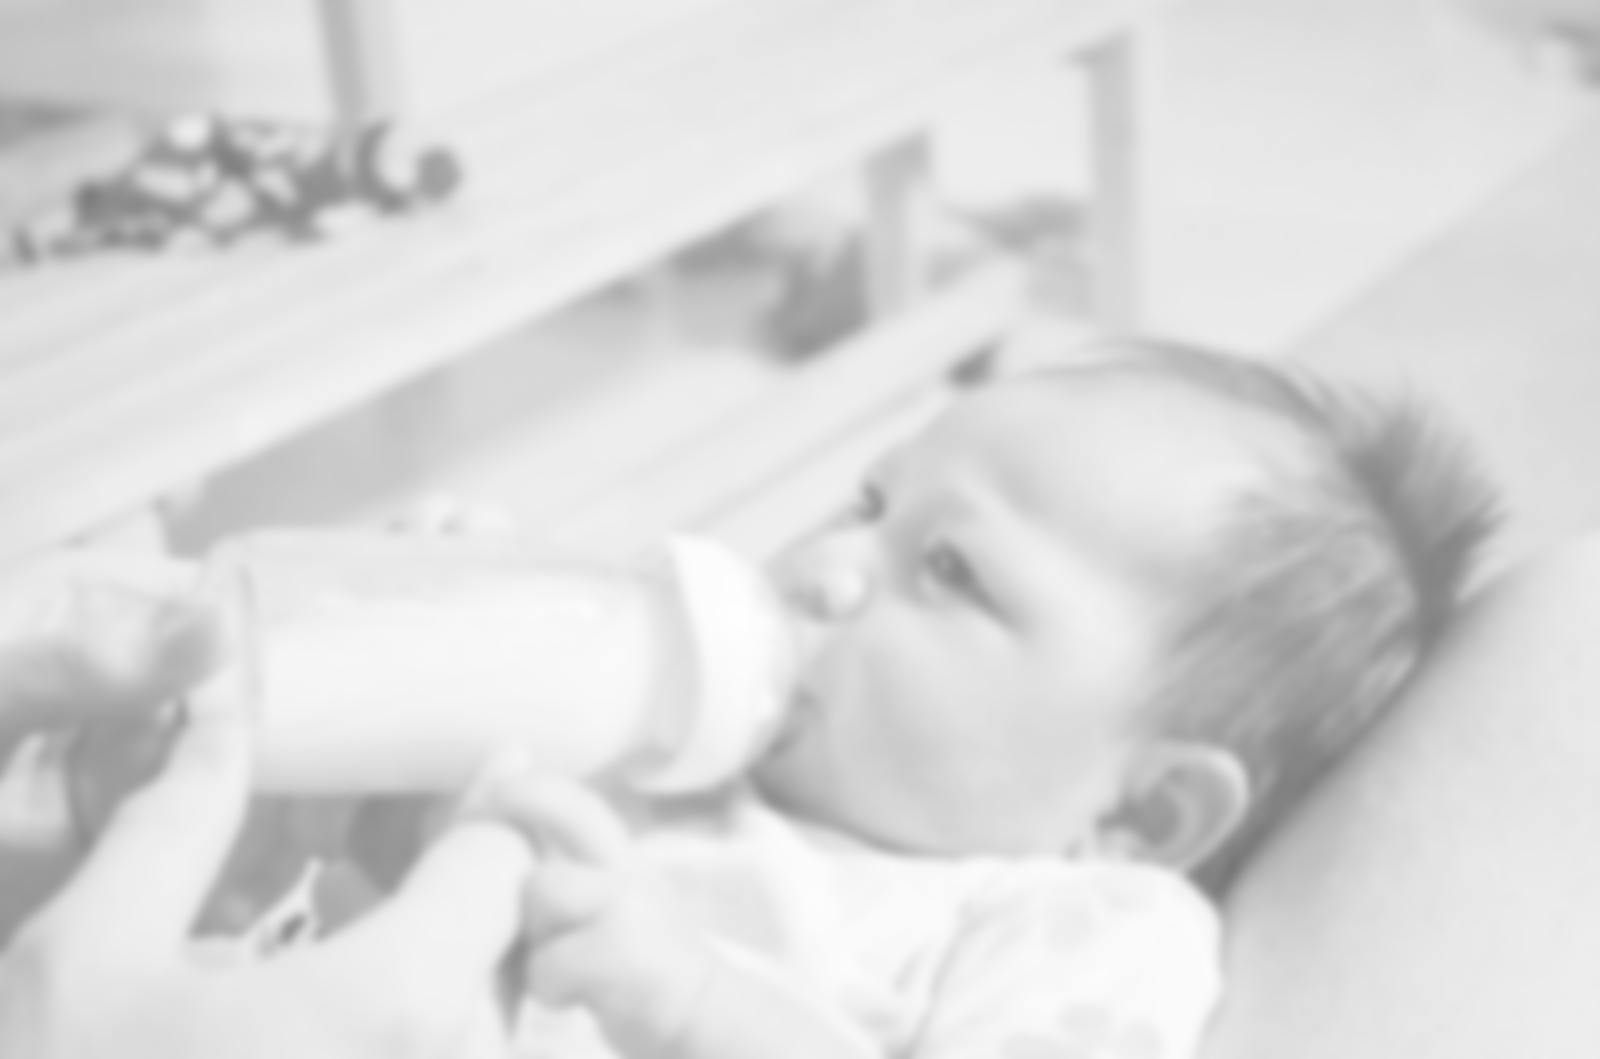
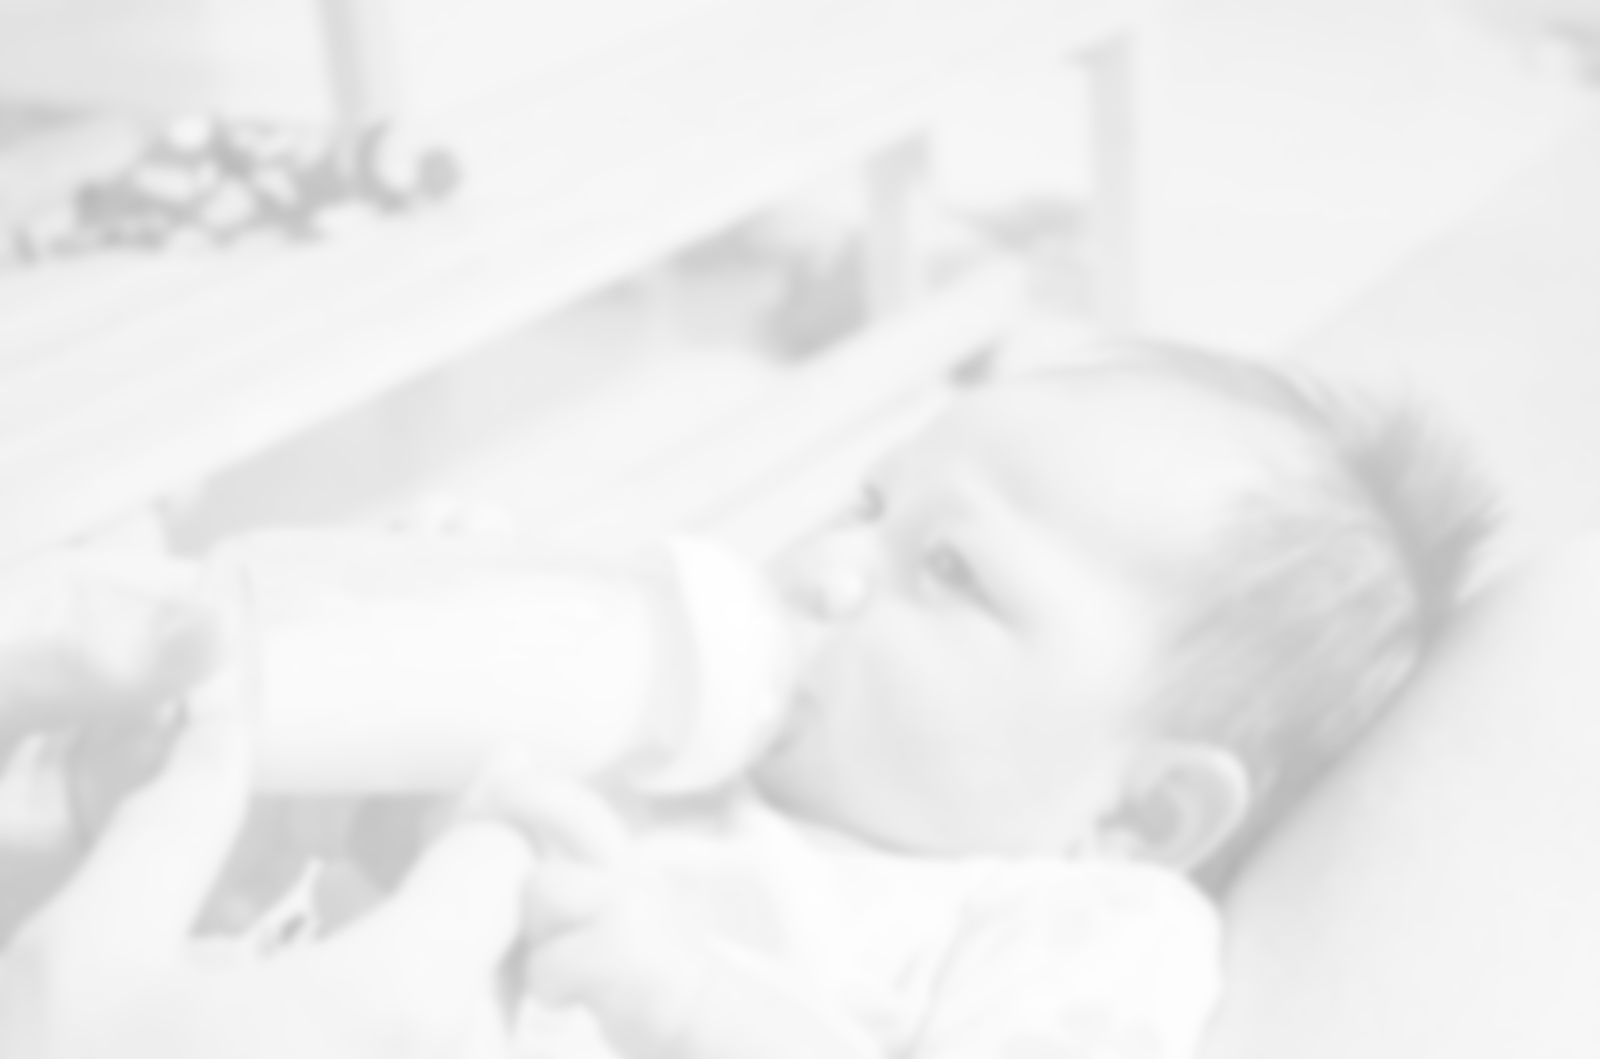
Checked home, main, createacct, userprofile, edituserprofile, donorprofile

diff --git a/templates/userprofile.html b/templates/userprofile.html
@@ -15,25 +15,25 @@ Where a user sees their profile
 		<div class="yourprofile">
 			<h3> Your Profile </h3>
 		</div>
-		<p>First Name: {{ user.first_name }} </p>
-		<p>Last Name: {{ user.last_name }} </p>
-		<p>Email: {{ user.email }} </p>
-		<p>Password: {{ user.password }} </p>
-		<p>Phone Number: {{ user.cell_phone }} </p>
-		<p>Zip Code: {{ user.zip_code }} </p>
+		<p><strong>First Name:</strong> {{ user.first_name }} </p>
+		<p><strong>Last Name:</strong> {{ user.last_name }} </p>
+		<p><strong>Email:</strong> {{ user.email }} </p>
+		<p><strong>Password:</strong> {{ user.password }} </p>
+		<p><strong>Phone Number:</strong> {{ user.cell_phone }} </p>
+		<p><strong>Zip Code:</strong> {{ user.zip_code }} </p>
 
-		<p>No Dairy: {% if user.no_dairy == True %}x{% endif %}</p>
-		<p>No Wheat: {% if user.no_wheat == True %} x{% endif %}</p>
-		<p>No Soy: {% if user.no_soy == True %}x{% endif %} </p>
-		<p>No Caffeine: {% if user.no_caffeine == True %}x{% endif %} </p>
-		<p>No Alcohol: {% if user.no_alcohol == True %}x{% endif %} </p>
-		<p>Health Info Available: {% if user.has_health_info == True %}x{% endif %} </p>
+		<p><strong>No Dairy:</strong> {% if user.no_dairy == True %}x{% endif %}</p>
+		<p><strong>No Wheat:</strong> {% if user.no_wheat == True %} x{% endif %}</p>
+		<p><strong>No Soy:</strong> {% if user.no_soy == True %}x{% endif %} </p>
+		<p><strong>No Caffeine:</strong> {% if user.no_caffeine == True %}x{% endif %} </p>
+		<p><strong>No Alcohol:</strong> {% if user.no_alcohol == True %}x{% endif %} </p>
+		<p><strong>Health Info Available:</strong> {% if user.has_health_info == True %}x{% endif %} </p>
 
-		<p>Drug Information: {{ user.drug_info }} </p>
+		<p><strong>Drug Information:</strong> {{ user.drug_info }} </p>
 
-		<p>About You: {{ user.about_me }} </p>
+		<p><strong>About You:</strong> {{ user.about_me }} </p>
 
-		<p>Notes: {{ user.notes }} </p>
+		<p><strong>Notes:</strong> {{ user.notes }} </p>
 
 	</div>
 <p> <a href="/editprofile">Edit your profile</a></p>

diff --git a/templates/donorprofile.html b/templates/donorprofile.html
@@ -17,25 +17,25 @@ Donor profile information
 	<div class="donorprofile">
 		<h3> Donor Profile </h3>
 	</div>
-	<p>First Name: {{ user.first_name }} </p>
-	<p>Last Name: {{ user.last_name }} </p>
-	<p>Email: {{ user.email }} </p>
-	<p>Password: {{ user.password }} </p>
-	<p>Phone Number: {{ user.cell_phone }} </p>
-	<p>Zip Code: {{ user.zip_code }} </p>
+	<p><strong>First Name:</strong> {{ user.first_name }} </p>
+	<p><strong>Last Name:</strong> {{ user.last_name }} </p>
+	<p><strong>Email:</strong> {{ user.email }} </p>
+	<p><strong>Password:</strong> {{ user.password }} </p>
+	<p><strong>Phone Number:</strong> {{ user.cell_phone }} </p>
+	<p><strong>Zip Code:</strong> {{ user.zip_code }} </p>
 
-	<p>No Dairy: {% if user.no_dairy == True %}x{% endif %}</p>
-	<p>No Wheat: {% if user.no_wheat == True %} x{% endif %}</p>
-	<p>No Soy: {% if user.no_soy == True %}x{% endif %} </p>
-	<p>No Caffeine: {% if user.no_caffeine == True %}x{% endif %} </p>
-	<p>No Alcohol: {% if user.no_alcohol == True %}x{% endif %} </p>
+	<p><strong>No Dairy:</strong> {% if user.no_dairy == True %}x{% endif %}</p>
+	<p><strong>No Wheat:</strong> {% if user.no_wheat == True %} x{% endif %}</p>
+	<p><strong>No Soy:</strong> {% if user.no_soy == True %}x{% endif %} </p>
+	<p><strong>No Caffeine:</strong></strong> {% if user.no_caffeine == True %}x{% endif %} </p>
+	<p><strong>No Alcohol:</strong> {% if user.no_alcohol == True %}x{% endif %} </p>
 	
 
-	<p>Drug Information: {{ user.drug_info }} </p>
+	<p><strong>Drug Information:</strong> {{ user.drug_info }} </p>
 	
-	<p>About Me: {{user.about_me}}</p>
+	<p><strong>About Me:</strong> {{user.about_me}}</p>
 
-	<p>Notes: {{ user.notes }} </p>
+	<p><strong>Notes:</strong> {{ user.notes }} </p>
 	<p><a href="/users/{{user.id}}/messages/">Message {{ user.first_name }}</a> </p>
 
 </div>

diff --git a/templates/message.html b/templates/message.html
@@ -10,14 +10,18 @@
 Write a message to a donor
 -->
 
-<form action="/sendmessage">
+<div class="col-md-3"></div>
+<div class="col-md-7">
+<form action="/sendmessage" method="POST">
 	<fieldset>
-	<legend>Private Message:</legend>
-	To Donor:{{user.first_name}} {{user.last_name}} <br>
-	Message:<br>
+		<legend>Private Message:</legend>
+		To:{{user.first_name}} {{user.last_name}} <br>
+		Subject:<textarea id="subjectarea" name="subject"></textarea><br>
+		Message:<br>
 	<textarea id="textarea" name="inputmessage" rows="4" cols="75">Your Message</textarea><div class="submit">
 	<input type="submit" value="Submit"></div></fieldset>
 </form>
-
+</div>
+<div class="col-md-2"></div>
 
 {% endblock %}

diff --git a/templates/createacct.html b/templates/createacct.html
@@ -10,7 +10,7 @@
 Account Creation Form
 -->
 
-	<div class="col-md-6"></div>
+	<div class="col-md-4"></div>
 	<div class="col-md-4" class="createform">
 		<div class="createlabel">
 			<h3> Create an Account </h3>
@@ -27,7 +27,7 @@ Account Creation Form
 		<div class="form-group"><input class="btn btn-default" type="submit" value="Submit" id="signup-submit"></div>
 		</form></div>
 	</div>
-	<div class="col-md-2"></div>
+	<div class="col-md-4"></div>
 
 		
 {% endblock %}

diff --git a/templates/main.html b/templates/main.html
@@ -2,7 +2,7 @@
 
 {% block head %}
 
-<style>body{background-image: url("/static/img/baby-blur-drink-sfw.jpg");}</style>
+<style>body{background-image: url("/static/img/baby-blur-drink-lighter-sfw.jpg");}</style>
 
 {% endblock %}
 
